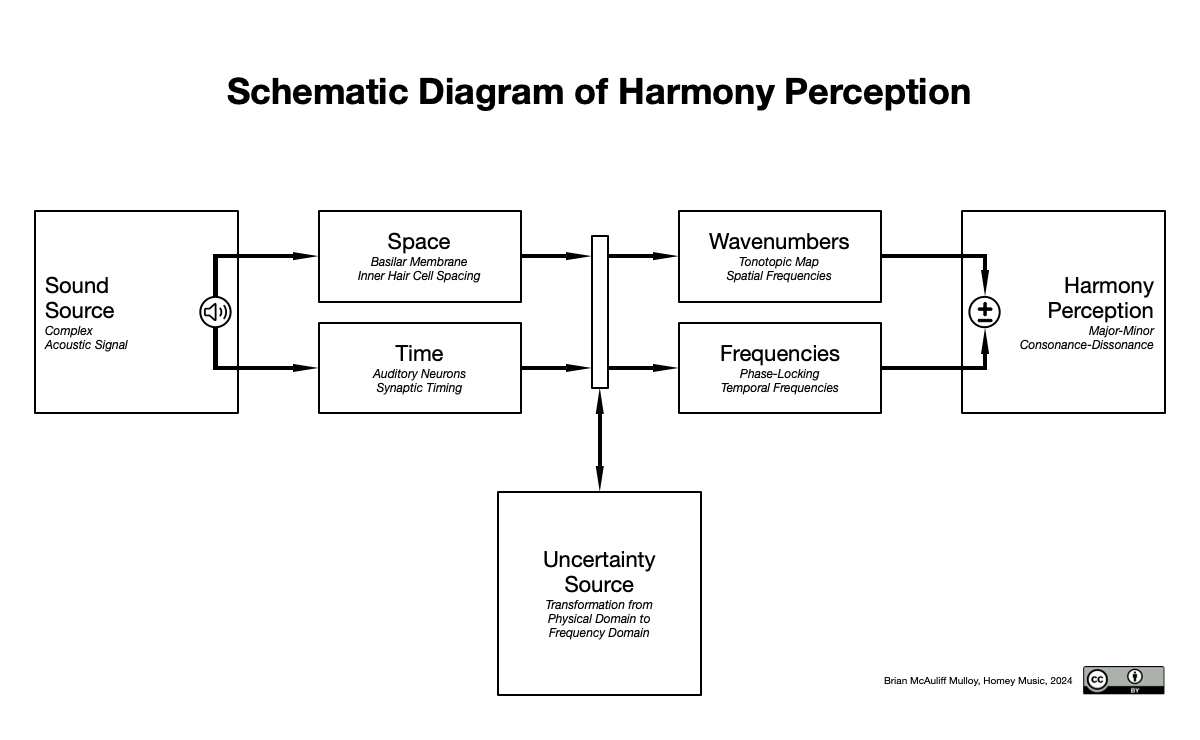
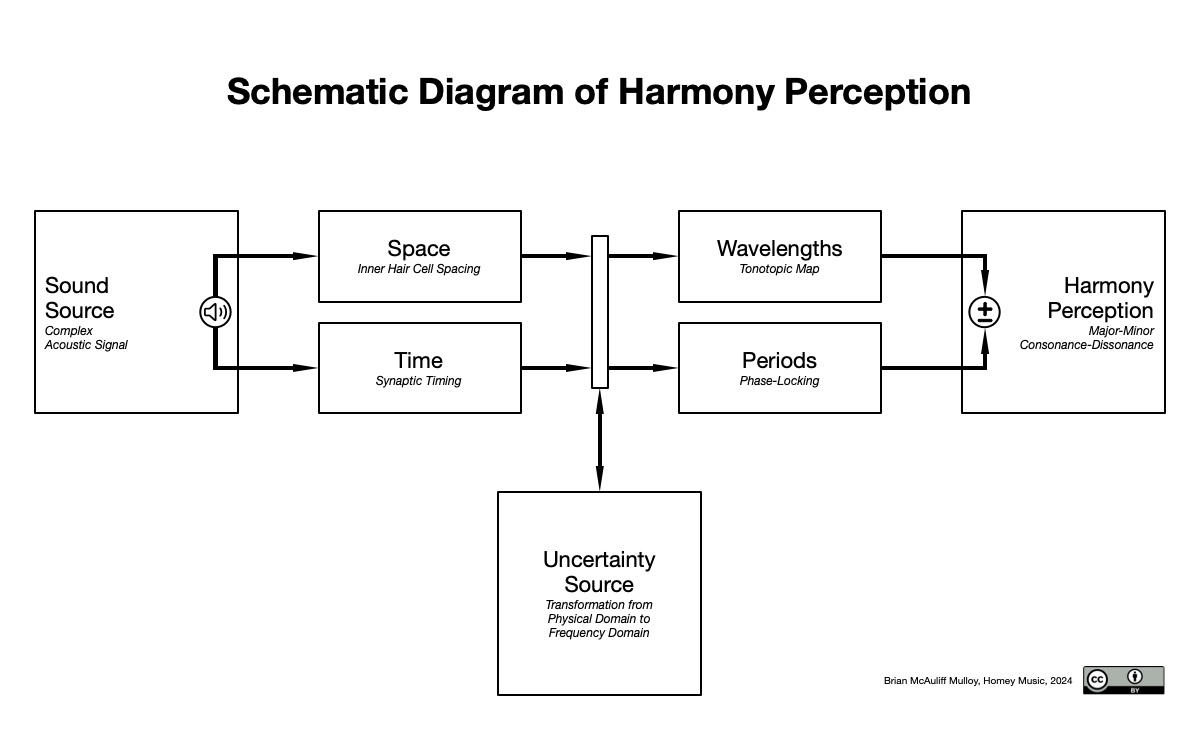
tests passing

diff --git a/man/thoughts/domains.md b/man/thoughts/domains.md
@@ -1,19 +1,13 @@
 Domain
 ================
 
-``` r
-P5 = c(60, 67) %>% mami.codi(num_harmonics = 1, verbose=T)
-P5 %>% tidyr::unnest(cols=c('frequencies', 'periods', 'wavenumbers', 'wavelengths'))
-#> # A tibble: 2 × 21
-#>   spectrum   temporal_cycles temporal_fractions spatial_cycles spatial_fractions
-#>   <list>               <dbl> <list>                      <dbl> <list>           
-#> 1 <sprs_fr_>               2 <df [2 × 8]>                    2 <df [2 × 8]>     
-#> 2 <sprs_fr_>               2 <df [2 × 8]>                    2 <df [2 × 8]>     
-#> # ℹ 16 more variables: log2_temporal_cycles <dbl>, log2_spatial_cycles <dbl>,
-#> #   dissonance <dbl>, majorness <dbl>, fundamental_frequency <dbl>,
-#> #   fundamental_wavelength <dbl>, frequencies <dbl>, periods <dbl>,
-#> #   wavenumbers <dbl>, wavelengths <dbl>, speed_of_sound <dbl>,
-#> #   minimum_amplitude <dbl>, temporal_standard_deviation <dbl>,
-#> #   spatial_standard_deviation <dbl>, harmonics_deviation <dbl>,
-#> #   metadata <list>
-```
+    #> # A tibble: 2 × 4
+    #>   frequencies periods wavenumbers wavelengths
+    #>         <dbl>   <dbl>       <dbl>       <dbl>
+    #> 1        262. 0.00382       0.763       1.31 
+    #> 2        392. 0.00255       1.14        0.875
+
+    #> # A tibble: 1 × 4
+    #>   f_cycles T_cycles k_cycles l_cycles
+    #>      <dbl>    <dbl>    <dbl>    <dbl>
+    #> 1        2        3        3        2
